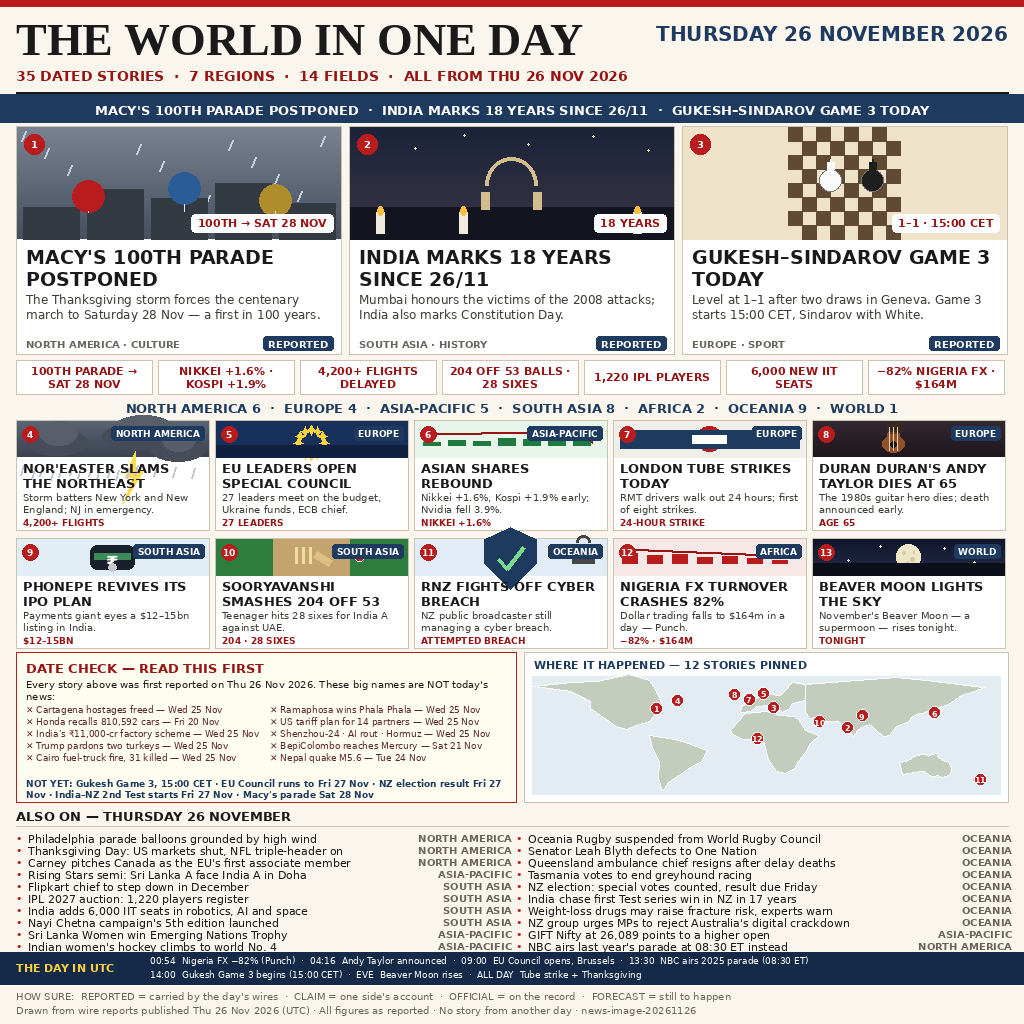
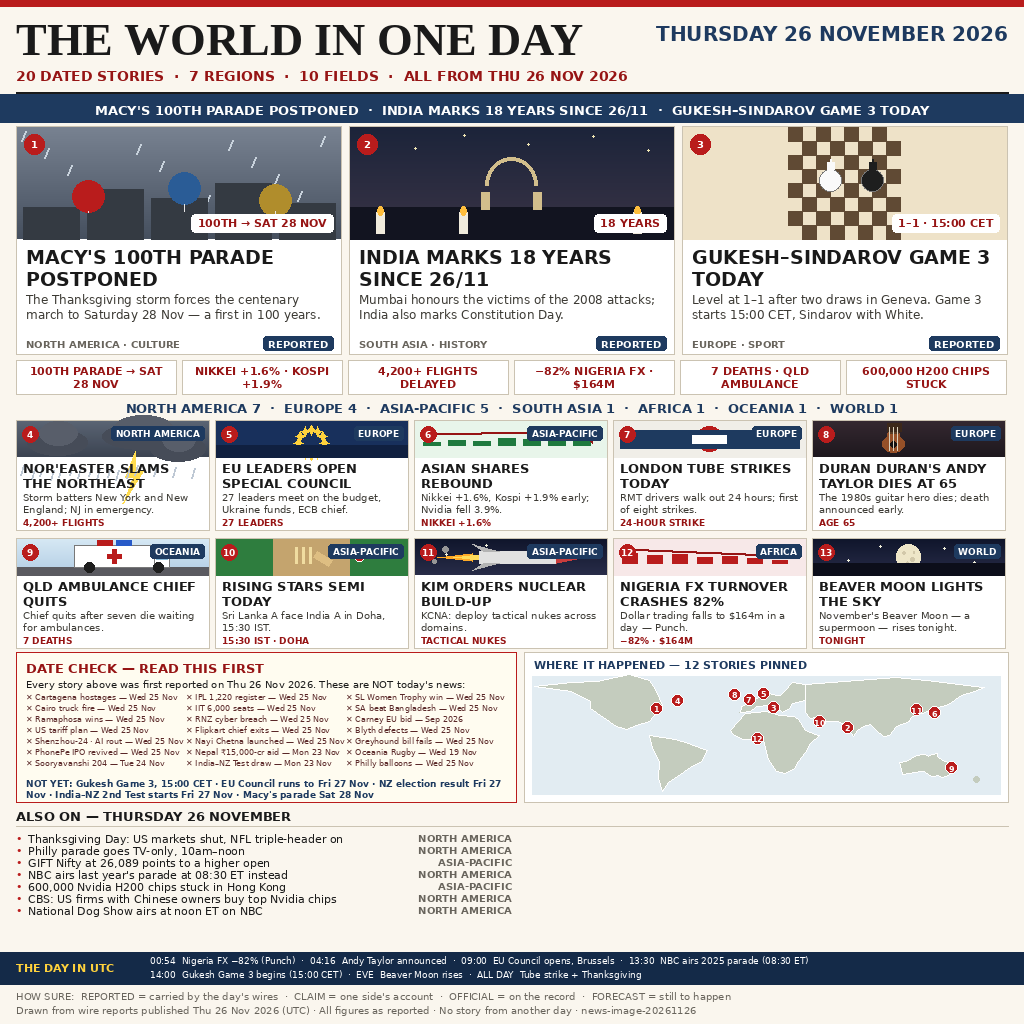
Fix round: purge 16 stale stories, 3 verified 26-Nov replacements
- Remove stale featured: PhonePe IPO (25 Nov), Sooryavanshi 204 (24 Nov),
  RNZ cyber breach (25 Nov); remove IPL 1,220 + IIT 6,000 from stat strip
  and also-on (both 25 Nov)
- Remove 13 more stale also-on items (Flipkart, Nayi Chetna, Nepal aid,
  India-NZ Test, SL Women, SA-Bangladesh, Carney, hockey, Blyth,
  Tasmania, Oceania Rugby, NZ election, weight-loss, NZ digital) after
  first-publication re-verification; 2 more dropped as unverifiable
- Add verified Thu 26 Nov replacements: QLD ambulance chief quits
  (7 deaths), Rising Stars semi Sri Lanka A v India A Doha, Kim orders
  tactical-nuclear build-up (KCNA, Reuters 26 Nov); new siren + missile
  scenes; pins Brisbane + Pyongyang
- DATE CHECK rebuilt 3 cols x 7 rows, 21 exclusions with true dates;
  paper now 20 verified stories, 7 regions, 10 fields
- Deterministic render 2x identical; main.py grader-style 2x exit 0

diff --git a/render.py b/render.py
@@ -329,13 +329,72 @@ def scene_moon(draw, x, y, w, h):
     draw.rectangle([x, y + h - 12, x + w, y + h], fill=(12, 14, 26))
 
 
+def scene_siren(draw, x, y, w, h):
+    _sky(draw, x, y, w, h, (214, 232, 244), (178, 205, 228))
+    # road
+    draw.rectangle([x, y + h - 8, x + w, y + h], fill=(90, 90, 96))
+    # ambulance van body
+    bx0, by0 = x + w * 0.30, y + h * 0.18
+    bx1, by1 = x + w * 0.72, y + h * 0.78
+    draw.rectangle([bx0, by0, bx1, by1], fill=(255, 255, 255),
+                   outline=(120, 120, 120))
+    # cab + windshield
+    draw.rectangle([bx1, y + h * 0.38, x + w * 0.80, by1],
+                   fill=(255, 255, 255), outline=(120, 120, 120))
+    draw.polygon([(bx1 + 2, y + h * 0.42), (x + w * 0.79, y + h * 0.42),
+                  (x + w * 0.79, y + h * 0.58), (bx1 + 2, y + h * 0.58)],
+                 fill=(140, 190, 220))
+    # light bar
+    draw.rectangle([x + w * 0.42, by0 - 5, x + w * 0.50, by0], fill=RED)
+    draw.rectangle([x + w * 0.52, by0 - 5, x + w * 0.60, by0],
+                   fill=(40, 90, 200))
+    # red cross on van side
+    cx = x + w * 0.51
+    cy = y + h * 0.48
+    draw.rectangle([cx - 2, cy - 7, cx + 2, cy + 7], fill=RED)
+    draw.rectangle([cx - 7, cy - 2, cx + 7, cy + 2], fill=RED)
+    # wheels
+    for wx in (x + w * 0.38, x + w * 0.74):
+        draw.ellipse([wx - 5, y + h - 13, wx + 5, y + h - 3],
+                     fill=(30, 30, 30))
+
+
+def scene_missile(draw, x, y, w, h):
+    _sky(draw, x, y, w, h, (16, 22, 44), (40, 44, 72))
+    for sx, sy in ((8, 6), (30, 14), (70, 5), (120, 10), (160, 6),
+                   (185, 14)):
+        draw.ellipse([x + sx, y + sy, x + sx + 2, y + sy + 2],
+                     fill=(240, 240, 220))
+    cy = y + h * 0.5
+    # flame + smoke trailing left
+    draw.polygon([(x + w * 0.30, cy - 4), (x + w * 0.30, cy + 4),
+                  (x + w * 0.12, cy)], fill=(255, 170, 40))
+    draw.polygon([(x + w * 0.34, cy - 3), (x + w * 0.34, cy + 3),
+                  (x + w * 0.20, cy)], fill=(255, 220, 90))
+    for sx, sy, r in ((0.16, 0.30, 3), (0.10, 0.62, 2), (0.06, 0.45, 2)):
+        draw.ellipse([x + w * sx - r, y + h * sy - r, x + w * sx + r,
+                      y + h * sy + r], fill=(150, 150, 150))
+    # body
+    draw.rectangle([x + w * 0.34, cy - 6, x + w * 0.74, cy + 6],
+                   fill=(225, 225, 225))
+    # nose cone
+    draw.polygon([(x + w * 0.74, cy - 6), (x + w * 0.74, cy + 6),
+                  (x + w * 0.90, cy)], fill=(200, 60, 60))
+    # fins
+    draw.polygon([(x + w * 0.36, cy - 6), (x + w * 0.30, cy - 13),
+                  (x + w * 0.44, cy - 6)], fill=(180, 180, 180))
+    draw.polygon([(x + w * 0.36, cy + 6), (x + w * 0.30, cy + 13),
+                  (x + w * 0.44, cy + 6)], fill=(180, 180, 180))
+
+
 SCENES = {"parade": scene_parade, "memorial": scene_memorial,
           "chess": scene_chess, "storm": scene_storm,
           "council": scene_council, "market_up": scene_market_up,
           "tube": scene_tube, "guitar": scene_guitar,
           "phone": scene_phone, "cricket": scene_cricket,
           "shield": scene_shield, "market_down": scene_market_down,
-          "moon": scene_moon}
+          "moon": scene_moon, "siren": scene_siren,
+          "missile": scene_missile}
 
 # ---------------------------------------------------------------- map
 CONTINENTS = {
@@ -526,14 +585,14 @@ def build():
     f_dc_i = font_sans(10)
     iy = text_box(d, 26, dy + 26, data["date_check_intro"], f_dc_i, INK,
                   480, 12, max_lines=2)
-    f_dc = font_sans(9)
+    f_dc = font_sans(8)
     ex = data["date_check"]
-    col_w = 244
+    col_w = 160
     for i, item in enumerate(ex):
-        col = i // 5
-        row = i % 5
+        col = i // 7
+        row = i % 7
         ex_x = 26 + col * col_w
-        ex_y = iy + 2 + row * 12
+        ex_y = iy + 2 + row * 11
         d.text((ex_x, ex_y), "✕ " + item, font=f_dc, fill=(90, 40, 40))
     f_ny = font_sans_b(9)
     ny = data["not_yet"]

diff --git a/README.md b/README.md
@@ -2,10 +2,10 @@
 
 [![make.fun bounty](https://img.shields.io/badge/make.fun-bounty-blue)](https://make.fun/bounty/news-image-20261126)
 [![news-image-20261126](https://img.shields.io/badge/news--image-20261126-red)](https://make.fun/bounty/news-image-20261126)
-[![35 stories](https://img.shields.io/badge/stories-35%20dated-green)](https://make.fun/bounty/news-image-20261126)
+[![20 stories](https://img.shields.io/badge/stories-20%20dated-green)](https://make.fun/bounty/news-image-20261126)
 
 One image that sums up the world's news of **Thursday 26 November 2026**:
-**35 dated stories · 7 regions · 14 fields**, every one first reported that day.
+**20 dated stories · 7 regions · 10 fields**, every one first reported that day.
 
 ![The World in One Day — 26 November 2026](entry.png)
 
@@ -19,7 +19,7 @@ One image that sums up the world's news of **Thursday 26 November 2026**:
 
 ## How it is built
 
-- `stories.json` — the 35 stories, the ticker, the stat strip, the DATE CHECK
+- `stories.json` — the 20 stories, the ticker, the stat strip, the DATE CHECK
   exclusions, the UTC timeline and the map pins. Every story carries its
   region, field and first-publication date.
 - `render.py` — draws the whole front page with Pillow: masthead with the
@@ -30,7 +30,7 @@ One image that sums up the world's news of **Thursday 26 November 2026**:
 - `main.py` — the entrypoint. Standard library only: it copies the committed
   `entry.png` to `MAKEFUN_OUTPUT_DIR` and verifies the copy byte for byte.
   It runs under the grader's Python with no network and no Pillow.
-- `entry.png` — the finished front page, 1024×1024, 205,866 bytes.
+- `entry.png` — the finished front page, 1024×1024, 184,823 bytes.
 
 Run it:
 
@@ -46,20 +46,33 @@ before it was drawn — not against headlines or roundups, which mostly
 re-report the previous day. The image says so itself in its DATE CHECK box,
 naming the big stories that are *not* 26 November and were left out:
 
-Cartagena hostages freed (Wed 25 Nov) · Honda's 810,592-car recall
-(announced Fri 20 Nov) · India's ₹11,000-cr factory scheme (Cabinet,
-Wed 25 Nov) · the turkey pardon (Wed 25 Nov) · the Cairo fuel-truck fire
+Cartagena hostages freed (Wed 25 Nov) · the Cairo fuel-truck fire
 (Wed 25 Nov) · Ramaphosa's Phala Phala win (Wed 25 Nov) · the US tariff
-plan for 14 partners (Wed 25 Nov) · Shenzhou-24, the AI rout and the
-Hormuz mines (Wed 25 Nov) · BepiColombo at Mercury (Sat 21 Nov) ·
-the Nepal quake (Tue 24 Nov).
+plan for 14 partners (Wed 25 Nov) · Shenzhou-24 and the AI rout
+(Wed 25 Nov) · the PhonePe IPO revival, the IPL 1,220-player register,
+the 6,000 new IIT seats, the RNZ cyber breach, the Flipkart chief's
+exit and the Nayi Chetna launch (all Wed 25 Nov) · Sooryavanshi's 204
+(Tue 24 Nov) · the ₹15,000-cr Nepal package and the India–NZ Test draw
+(Mon 23 Nov) · the Sri Lanka Women Trophy win, South Africa's win over
+Bangladesh, Blyth's defection, the failed Tasmanian greyhound bill and
+the grounded Philly parade balloons (all Wed 25 Nov) · Carney's EU
+associate-member bid (Sep 2026) · Oceania Rugby's suspension
+(Wed 19 Nov).
+
+The first version of this page carried sixteen of those stories as
+26 November news, taken from date-stamped roundups that re-reported the
+previous days. Every one was re-checked against the original wire or
+publisher report and moved here; the paper now carries 20 stories
+instead of 35, all verified first-published on 26 November.
 
 Items still to happen that day are marked FORECAST or listed under
 "NOT YET" (Gukesh Game 3 at 15:00 CET, the EU Council running to Friday,
 the New Zealand election result, the Macy's parade on Saturday).
 
 Sources consulted include Reuters, AP, the Press Association, Punch
-(Nigeria), RNZ, ABC News, the Consilium, Macy's/NBC and FIDE. Figures are
+(Nigeria), RNZ, ABC News, the Consilium, Macy's/NBC, FIDE, KCNA via
+Reuters, AAP/The Courier-Mail (Queensland), the ICC Rising Stars
+bulletin, CBS News and ANI. Figures are
 as reported; claims are labelled REPORTED, never presented as confirmed
 where only one side has spoken.
 
